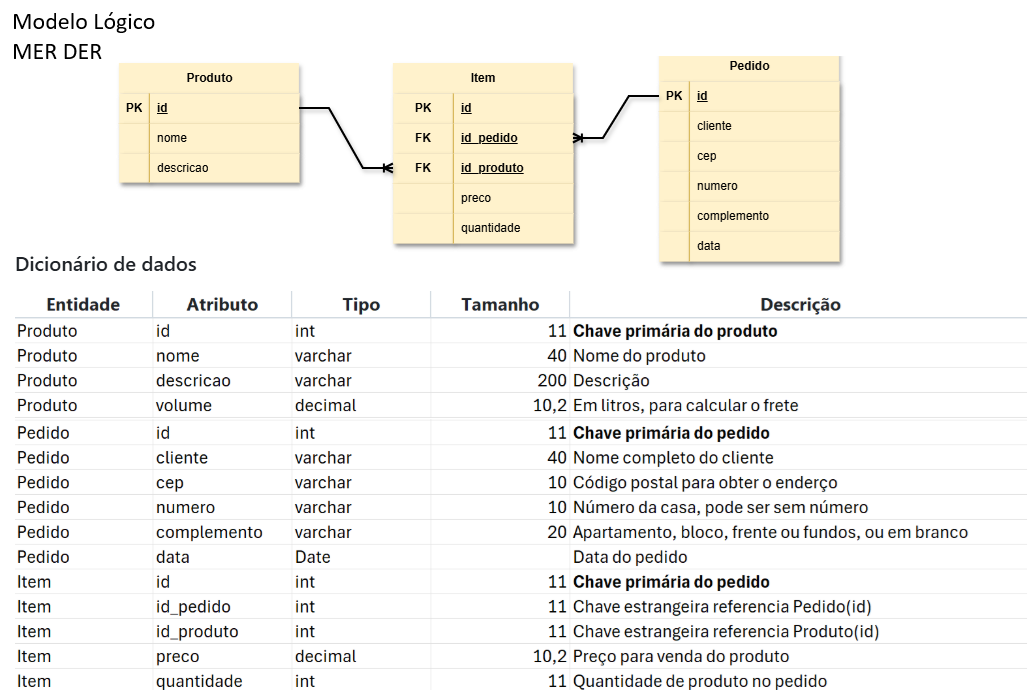
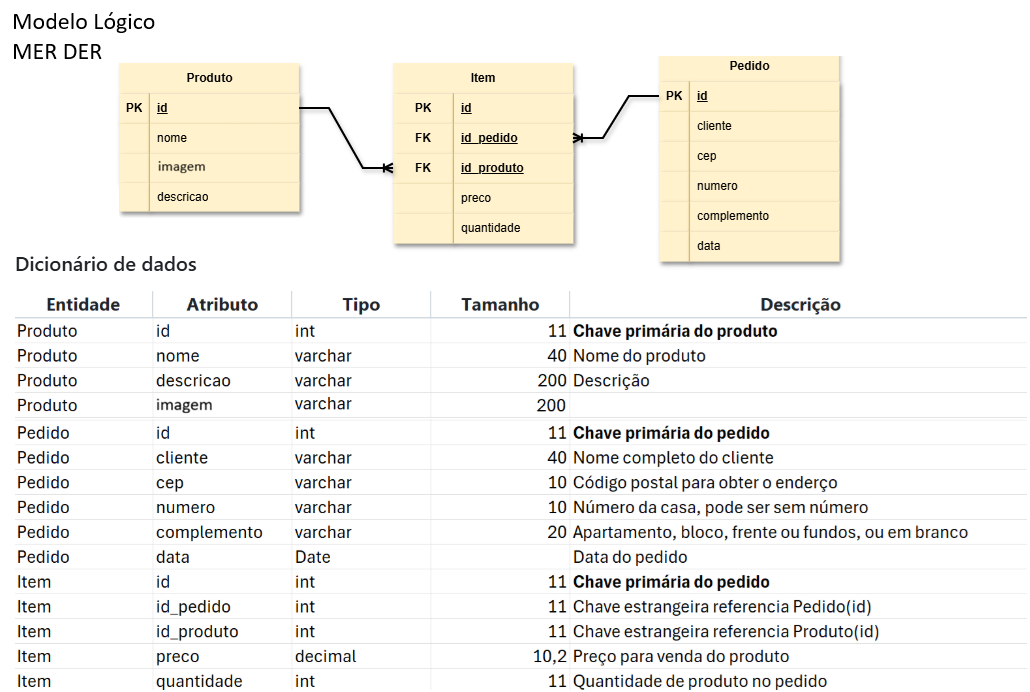
aula02

diff --git a/ds/turmas/2DES_A/4º Semestre/05-psof3/aula02/README.md b/ds/turmas/2DES_A/4º Semestre/05-psof3/aula02/README.md
@@ -31,33 +31,32 @@ datasource db {
 }
 
 model produto {
-  id        Int    @id @default(autoincrement())
-  nome      String
-  descricao String
-  imagem    String?
+  id        Int     @id @default(autoincrement())
+  nome      String  @db.VarChar(40)
+  descricao String  @db.VarChar(200)
+  imagem    String? @db.VarChar(200)
   itens     item[]
 }
 
 model pedido {
   id          Int      @id @default(autoincrement())
-  cliente     String
-  cep         String
-  numero      String?
-  complemento String?
+  cliente     String   @db.VarChar(200)
+  cep         String   @db.VarChar(10)
+  numero      String?  @db.VarChar(10)
+  complemento String?  @db.VarChar(20)
   data        DateTime @default(now())
   itens       item[]
 }
 
 model item {
-  id         Int @id @default(autoincrement())
+  id         Int     @id @default(autoincrement())
   pedidoId   Int
   produtoId  Int
   quantidade Int
   preco      Decimal @db.Decimal(10, 2)
-  pedido  pedido  @relation(fields: [pedidoId], references: [id])
-  produto produto @relation(fields: [produtoId], references: [id])
+  pedido     pedido  @relation(fields: [pedidoId], references: [id])
+  produto    produto @relation(fields: [produtoId], references: [id])
 }
-
 ```
 - Esquema criado com base no MER abaixo:
 ![MER](./mer.png)
